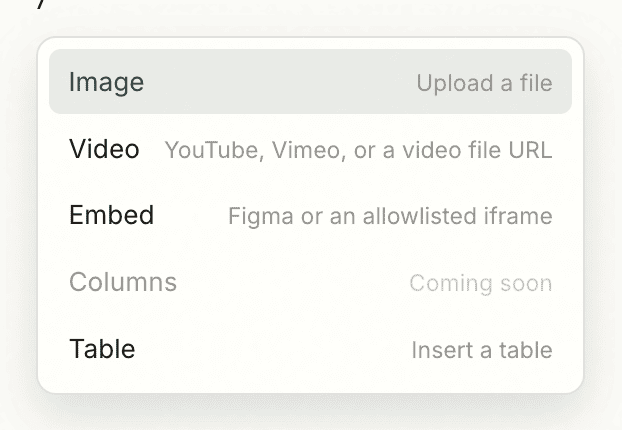
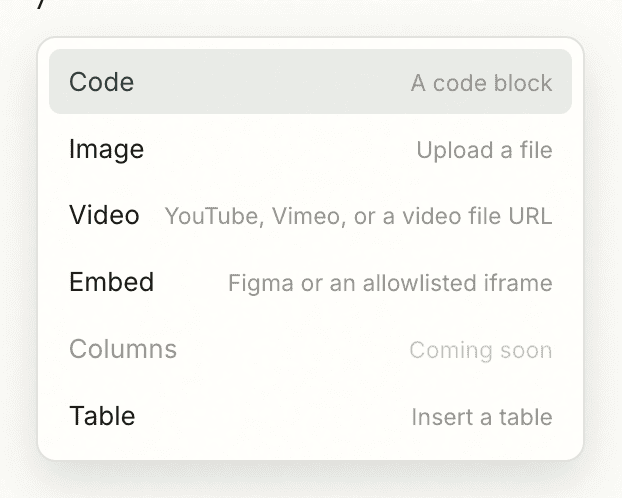
Publish: per-section sort, page byline, editor polish, OKF export

diff --git a/handbook/guide/reading-and-writing/index.html b/handbook/guide/reading-and-writing/index.html
@@ -23,7 +23,10 @@
 <h2>Reading</h2>
 <p>Pages open on warm paper, set in a serif for long reading. The sidebar on the left is your mounts and their folders, nested and collapsible, and it expands to show where you are. A breadcrumb across the top tells you the path, collapsing its middle on deep pages so it never runs off the screen. Wikilinks, written <code>[[by title]]</code>, resolve to the page they name, and only to pages you are allowed to open.</p>
 <p>Search is a keystroke away. <code>⌘K</code> opens the palette: ranked results with the matching passage highlighted, your recently changed pages when the box is still empty, and the keyboard all the way to Enter. When you want to dig, the full results page holds every match with highlighted passages and per-mount filters. Multi-word queries rank pages by how many of your words they share, adjacent phrases first, and the word you are still typing already matches as a prefix.</p>
-<figure><img src="../../assets/search.gif" alt="The search palette opening with ⌘K, results ranking as the query is typed, and Enter opening a page"><figcaption>⌘K, a few letters, Enter. The keyboard the whole way.</figcaption></figure>
+<figure>
+<img src="../../assets/search.gif" alt="The search palette opening with ⌘K, results ranking as the query is typed, and Enter opening a page">
+<figcaption>⌘K, a few letters, Enter. The keyboard the whole way.</figcaption>
+</figure>
 <h2>Writing</h2>
 <p>Editing is deliberate, and it is one gesture.</p>
 <ol>
@@ -35,7 +38,7 @@
 <figure><img src="../../assets/edit-update.gif" alt="The whole editing gesture: Edit, a line typed in place, Update, and the fresh byline"><figcaption>The whole gesture: Edit, change, Update. One commit happened behind it.</figcaption></figure>
 <figure><img src="../../assets/input-rules.gif" alt="Markdown shortcuts converting live: hashes into a heading, stars into bold, a dash into a list"><figcaption>Markdown as you type: hashes make headings, stars make bold, a dash starts a list.</figcaption></figure>
 <figure><img src="../../assets/editor-toolbar.png" alt="The editor&#x27;s floating bottom toolbar: format marks, blocks, inserts, and Update"><figcaption>The whole chrome of edit mode: one floating bar, and the page itself.</figcaption></figure>
-<figure><img src="../../assets/slash-menu.png" alt="The slash menu open in the editor, offering Image, Video, Embed, and Table"><figcaption>Type a slash on a fresh line to insert.</figcaption></figure>
+<figure><img src="../../assets/slash-menu.png" alt="The slash menu open in the editor, offering Code, Image, Video, Embed, and Table"><figcaption>Type a slash on a fresh line to insert.</figcaption></figure>
 <h2>When two edits collide</h2>
 <p>Hanji notices if the page changed underneath you between the moment you opened the editor and the moment you pressed Update. Rather than overwrite the newer version, it stops and tells you, so you never clobber a change you did not see. Reload, reapply your edit on top of the current page, and Update again.</p>
 <h2>New pages</h2>
@@ -45,11 +48,13 @@
 <p>The sidebar is not just a map. It is where you arrange the collection.</p>
 <ul>
 <li><strong>Move</strong>: drag a page or folder onto another folder, or onto a mount's header for its root. A folder brings everything inside it, and the commit behind the drop is a real <code>git mv</code>, so history follows the page.</li>
-<li><strong>Reorder</strong>: drop on the edge of a sibling row, where the insertion line shows. Hanji writes the new arrangement into the pages' <code>order:</code> frontmatter, as one commit.</li>
+<li><strong>Reorder</strong>: drop on the edge of a sibling row, where the insertion line shows. Hanji writes the new arrangement into the pages' <code>order:</code> frontmatter, as one commit. This is the <em>manual</em> order, and it is the default the sidebar shows.</li>
 <li><strong>Nest</strong>: drop onto the middle of a page and it becomes a section landing with the dragged page inside, the same conversion the + performs.</li>
 <li><strong>The rail too</strong>: drag one mount header onto another to reorder the mounts themselves.</li>
 </ul>
 <p>Drops apply instantly; git catches up behind. If something blocks a move, the tree snaps back and a toast tells you why. And if you were reading the page you just moved, the address quietly follows it.</p>
+<h3>Sorting a section</h3>
+<p>The curated <code>order:</code> is not the only way to read a folder. Open a folder (or a mount) and a small sort control appears on its row: leave it <strong>Manual</strong> to keep your arrangement, or switch that section to <strong>Newest first</strong>, <strong>Oldest first</strong>, or <strong>A–Z</strong> by title. The date it sorts by is the one in the filename when a page has one (a <code>2026-04-24-…</code> note sorts by that), and the page's last-commit date otherwise — so a bulk rename that resets git's dates does not scramble the order. The choice is per folder and per person, kept in your browser, so it never changes what anyone else sees or writes anything to the repository. A re-sorted section keeps its control lit so you can tell at a glance. While a section is sorted, drag-to-reorder pauses there: the order you see is not the stored one, so switch back to Manual to curate again.</p>
 <h2>Deleting</h2>
 <p>Next to Edit sits a quiet trash. The first click arms it into an explicit red question, the second deletes: a <code>git rm</code> and one commit. Deleting a section landing takes its children with it, the inverse of nesting. Nothing is ever truly gone, though. The repository remembers every sheet, and history can bring one back.</p>
 <h2>History</h2>

diff --git a/handbook/product/features/index.html b/handbook/product/features/index.html
@@ -131,7 +131,12 @@
 
 
 
-<table><thead><tr><th>Feature</th><th>Status</th><th>Note</th></tr></thead><tbody><tr><td>Markdown reading, rendered with care</td><td>Shipped</td><td>Warm paper, serif, careful spacing</td></tr><tr><td>In-place WYSIWYG editor</td><td>Shipped</td><td>Edit, change, Update, one commit</td></tr><tr><td>Byte-fidelity edits</td><td>Shipped</td><td>A one-word edit is a one-line diff</td></tr><tr><td>Tables, with Notion-style controls</td><td>Shipped</td><td>Hover handles, insert, drag to move</td></tr><tr><td>Task lists, interactive</td><td>Shipped</td><td>Check them off in the page</td></tr><tr><td>Strikethrough and bare-URL autolinks</td><td>Shipped</td><td>Full GFM parity in the editor</td></tr><tr><td>Slash menu to insert</td><td>Shipped</td><td>Blocks, images, embeds</td></tr><tr><td>Images uploaded into the repo</td><td>Shipped</td><td>Into <code>assets/</code>, no external link-rot</td></tr><tr><td>Embeds, video and iframe</td><td>Shipped</td><td>Domain allowlist: figma, youtube, loom, vimeo</td></tr><tr><td>Page history, byline and revisions</td><td>Shipped</td><td>View any past version</td></tr><tr><td>Nested, collapsible sidebar</td><td>Shipped</td><td>Built from page paths</td></tr><tr><td>Breadcrumb navigation</td><td>Shipped</td><td>Middle-collapsing on deep pages</td></tr><tr><td>Wikilinks, <code>[[by title]]</code></td><td>Shipped</td><td>Resolved and permission-aware</td></tr><tr><td>Full-text search</td><td>Shipped</td><td>bm25, title-boosted, multi-word aware, scoped to what you can read</td></tr><tr><td>Search palette and results page</td><td>Shipped</td><td><code>⌘K</code> with ranked snippets; <code>/kb/search</code> with filters</td></tr><tr><td>Emoji, three ways in</td><td>Shipped</td><td>Toolbar picker, <code>:query</code> menu, <code>:tada:</code> conversion</td></tr><tr><td>Sidebar quick-create</td><td>Shipped</td><td>A + on every mount, folder, and page</td></tr><tr><td>Drag to move, reorder, and nest</td><td>Shipped</td><td>Instant, git behind, auto-revert on failure</td></tr><tr><td>Page delete</td><td>Shipped</td><td>Two-step trash, <code>git rm</code>, recoverable from history</td></tr><tr><td>Works on a phone</td><td>Shipped</td><td>Top bar, drawer, the same sidebar</td></tr></tbody></table>
+
+
+
+
+
+<table><thead><tr><th>Feature</th><th>Status</th><th>Note</th></tr></thead><tbody><tr><td>Markdown reading, rendered with care</td><td>Shipped</td><td>Warm paper, serif, careful spacing</td></tr><tr><td>In-place WYSIWYG editor</td><td>Shipped</td><td>Edit, change, Update, one commit</td></tr><tr><td>Byte-fidelity edits</td><td>Shipped</td><td>A one-word edit is a one-line diff</td></tr><tr><td>Tables, with Notion-style controls</td><td>Shipped</td><td>Hover handles, insert, drag to move</td></tr><tr><td>Task lists, interactive</td><td>Shipped</td><td>Check them off in the page</td></tr><tr><td>Strikethrough and bare-URL autolinks</td><td>Shipped</td><td>Full GFM parity in the editor</td></tr><tr><td>Slash menu to insert</td><td>Shipped</td><td>Blocks, images, embeds</td></tr><tr><td>Images uploaded into the repo</td><td>Shipped</td><td>Into <code>assets/</code>, no external link-rot</td></tr><tr><td>Embeds, video and iframe</td><td>Shipped</td><td>Domain allowlist: figma, youtube, loom, vimeo</td></tr><tr><td>Page history, byline and revisions</td><td>Shipped</td><td>View any past version</td></tr><tr><td>Nested, collapsible sidebar</td><td>Shipped</td><td>Built from page paths</td></tr><tr><td>Breadcrumb navigation</td><td>Shipped</td><td>Middle-collapsing on deep pages</td></tr><tr><td>Wikilinks, <code>[[by title]]</code></td><td>Shipped</td><td>Resolved and permission-aware</td></tr><tr><td>Full-text search</td><td>Shipped</td><td>bm25, title-boosted, multi-word aware, scoped to what you can read</td></tr><tr><td>Search palette and results page</td><td>Shipped</td><td><code>⌘K</code> with ranked snippets; <code>/kb/search</code> with filters</td></tr><tr><td>Emoji, three ways in</td><td>Shipped</td><td>Toolbar picker, <code>:query</code> menu, <code>:tada:</code> conversion</td></tr><tr><td>Sidebar quick-create</td><td>Shipped</td><td>A + on every mount, folder, and page</td></tr><tr><td>Drag to move, reorder, and nest</td><td>Shipped</td><td>Instant, git behind, auto-revert on failure</td></tr><tr><td>Per-section sort</td><td>Shipped</td><td>Manual, Newest, Oldest, or A–Z — by filename or commit date, per folder, per person</td></tr><tr><td>Page delete</td><td>Shipped</td><td>Two-step trash, <code>git rm</code>, recoverable from history</td></tr><tr><td>Works on a phone</td><td>Shipped</td><td>Top bar, drawer, the same sidebar</td></tr></tbody></table>
 <h2>The rail and the agents</h2>
 
 

diff --git a/handbook/changelog/index.html b/handbook/changelog/index.html
@@ -20,6 +20,30 @@
 <p class="crumbs"><a href="../">handbook</a> / changelog</p>
 <article><h1>Changelog</h1>
 <p>Reverse chronological. Struck-through text is a decision we made and then moved past, kept visible on purpose, because a changelog that hides its own wrong turns is just marketing.</p>
+<h2>Finding things: sort a section by date or name</h2>
+<ul>
+<li>A folder or mount can now sort its own children four ways: <strong>Manual</strong> (your curated <code>order:</code>, the default and unchanged), <strong>Newest first</strong>, <strong>Oldest first</strong>, or <strong>A–Z</strong> by title. The control lives on the section's row and appears once it is open; a re-sorted section stays lit so it reads at a glance.</li>
+<li>The date it sorts by is the one that actually means something: a date in the filename if the page carries one (notes are often <code>YYYY-MM-DD</code>-named), the page's last-commit date otherwise. So a bulk rename or re-commit that flattens git's own dates does not flatten the order - the filename's date survives it.</li>
+<li>The choice is per section and per person, kept in the browser: it never touches the repository or what anyone else sees. Drag-to-reorder pauses while a section is sorted, because the visible order is no longer the stored one — switch back to Manual to curate.</li>
+<li>Under it: every page's last-commit date is now indexed (one git pass per sync), so date order is instant to read and doesn't walk history on every render. The same date powers the page byline.</li>
+</ul>
+<h2>The editor sharpens</h2>
+<ul>
+<li>Code blocks take the workspace's own accent hue instead of a fixed slate, so a warm workspace gets a warm block and a green one a green block - a deep panel that reads as part of the theme, in both modes.</li>
+<li>Selecting an image no longer pops the text formatting bubble over it: bold/italic have nothing to act on there, and the image's own controls own that moment.</li>
+<li>The image controls give their chips more room, and left/right alignment show real alignment icons rather than the empty rectangles the old glyphs left where a font had no character.</li>
+<li>The slash menu gained <strong>Code</strong> - a code block was insertable by typing ``` but had no entry in the menu until now.</li>
+<li>The page's YAML frontmatter no longer shows as a raw "source" card while editing: it is metadata, not body content, so it stays in the file (round-tripped untouched) but out of the editor's way. Raw HTML and other unsupported blocks still show their source card, since there is nowhere else for them to live. Frontmatter is guarded, too - clear the whole page and it survives, because losing a title or an order to a stray select-all is not an edit anyone means to make.</li>
+</ul>
+<h2>Small breaths</h2>
+<ul>
+<li>A page's header opens up: more air between the breadcrumb and the title, and between the title and its byline, so the top of every page reads calmer.</li>
+<li>Images sit a touch inside the measure now instead of edge to edge, and take a wider gap above them than a paragraph does - so a figure reads as placed, not pasted.</li>
+</ul>
+<h2>Export speaks Open Knowledge Format</h2>
+<ul>
+<li><code>hanji export --okf</code> shapes the Markdown mirror into an <a href="https://github.com/GoogleCloudPlatform/open-knowledge-format">Open Knowledge Format</a> bundle: every concept doc gets a <code>type</code> in its frontmatter (yours wins if you set one), the reserved <code>index.md</code> and <code>log.md</code> stay frontmatter-free, and the bundle root declares <code>okf_version</code>. The static site and <code>llms.txt</code> ride along unchanged, and the source in git is never touched, the shaping lives only in the copy on disk. Mounting an OKF bundle already worked, because a bundle is just Markdown on git.</li>
+</ul>
 <h2>The lockup opens, the footer retires</h2>
 <ul>
 <li>The workspace name is a door now: Settings and Log out lead, Documentation and Report an issue follow as real rows, and the project meta fades below - the version beside a What's new link to this page, then Contribute and Support, quietest last. The mark alone stays the one-click way home. Members see "Signed in as" where owners see Settings.</li>

diff --git a/handbook/guide/cli/index.html b/handbook/guide/cli/index.html
@@ -69,7 +69,7 @@
 
 
 
-<table><thead><tr><th>Command</th><th>What it does</th></tr></thead><tbody><tr><td><code>add-mount &#x3C;name> &#x3C;repoUrl> &#x3C;mountPath> [subpath] [--suggest]</code></td><td>Add a repository, or a folder of one, as a mount. <code>--suggest</code> makes it proposal-only.</td></tr><tr><td><code>remove-mount &#x3C;name></code></td><td>Remove a mount and its indexed pages. The clone directory stays on disk.</td></tr><tr><td><code>sync</code></td><td>Fetch every mount from its remote and reindex what changed.</td></tr><tr><td><code>rebuild</code></td><td>Discard the index and rebuild it from the local clones. Always safe.</td></tr><tr><td><code>token &#x3C;name> &#x3C;mount[/folder|/page.md]=read|read+propose>...</code></td><td>Mint a bearer token for an agent, scoped to a mount, a folder, or one page. Prints it once.</td></tr><tr><td><code>list</code></td><td>List every mount and how many pages it holds.</td></tr><tr><td><code>export &#x3C;outDir> [mount...]</code></td><td>Publish everything open to everyone: a browsable static site, <code>llms.txt</code>, <code>llms-full.txt</code>, and every page as plain Markdown. Mount names narrow the set; nothing widens it.</td></tr><tr><td><code>rule &#x3C;mount> [path] &#x3C;everyone-read|everyone-propose|restricted|clear></code></td><td>Set or clear a general-access rule from the command line - what Share's select does in the front.</td></tr><tr><td><code>set &#x3C;key> &#x3C;value></code></td><td>Write an instance setting - the workspace name, or the export settings <a href="../publish/">Publish to the web</a> describes.</td></tr><tr><td><code>assets [mount]</code></td><td>List uploaded images no page references anymore, per mount or everywhere.</td></tr></tbody></table>
+<table><thead><tr><th>Command</th><th>What it does</th></tr></thead><tbody><tr><td><code>add-mount &#x3C;name> &#x3C;repoUrl> &#x3C;mountPath> [subpath] [--suggest]</code></td><td>Add a repository, or a folder of one, as a mount. <code>--suggest</code> makes it proposal-only.</td></tr><tr><td><code>remove-mount &#x3C;name></code></td><td>Remove a mount and its indexed pages. The clone directory stays on disk.</td></tr><tr><td><code>sync</code></td><td>Fetch every mount from its remote and reindex what changed.</td></tr><tr><td><code>rebuild</code></td><td>Discard the index and rebuild it from the local clones. Always safe.</td></tr><tr><td><code>token &#x3C;name> &#x3C;mount[/folder|/page.md]=read|read+propose>...</code></td><td>Mint a bearer token for an agent, scoped to a mount, a folder, or one page. Prints it once.</td></tr><tr><td><code>list</code></td><td>List every mount and how many pages it holds.</td></tr><tr><td><code>export &#x3C;outDir> [mount...] [--okf]</code></td><td>Publish everything open to everyone: a browsable static site, <code>llms.txt</code>, <code>llms-full.txt</code>, and every page as plain Markdown. Mount names narrow the set; nothing widens it. <code>--okf</code> also shapes the Markdown mirror into an <a href="https://github.com/GoogleCloudPlatform/open-knowledge-format">Open Knowledge Format</a> bundle, described in <a href="../publish/">Publish to the web</a>.</td></tr><tr><td><code>rule &#x3C;mount> [path] &#x3C;everyone-read|everyone-propose|restricted|clear></code></td><td>Set or clear a general-access rule from the command line - what Share's select does in the front.</td></tr><tr><td><code>set &#x3C;key> &#x3C;value></code></td><td>Write an instance setting - the workspace name, or the export settings <a href="../publish/">Publish to the web</a> describes.</td></tr><tr><td><code>assets [mount]</code></td><td>List uploaded images no page references anymore, per mount or everywhere.</td></tr></tbody></table>
 <h2>Examples</h2>
 <pre><code class="language-bash">pnpm hanji add-mount handbook git@github.com:you/product.git handbook docs
 pnpm hanji sync

diff --git a/handbook/status/index.html b/handbook/status/index.html
@@ -30,6 +30,8 @@
 <li><input type="checkbox" checked disabled> The agent git flow, end to end: an agent proposes, you review the diff in the front, and merge (see <a href="../guide/proposals/">Proposals</a>)</li>
 <li><input type="checkbox" checked disabled> Search worth the name: a title-boosted, multi-word-aware backend under a <code>⌘K</code> palette and a full results page</li>
 <li><input type="checkbox" checked disabled> The sidebar as an organizer: quick-create, drag to move, reorder, nest, and delete, all real git behind an instant UI</li>
+<li><input type="checkbox" checked disabled> Per-section sorting: a folder or mount sorts its own children by date (newest or oldest, from the filename or the commit) or A-Z - a personal, per-section choice kept in the browser</li>
+<li><input type="checkbox" checked disabled> Every page's paper trail: a byline of who began it and who last changed it, read from git history, shown on the page and powering the recency sort</li>
 <li><input type="checkbox" checked disabled> A workspace made yours: name, logo, OKLCH theming with secured contrast, fonts, and a phone-ready shell</li>
 <li><input type="checkbox" checked disabled> Proposal from the human front: on a suggest-only mount, Update becomes Propose, landing in the same review card</li>
 <li><input type="checkbox" checked disabled> Several human principals: viewers and contributors with per-mount scopes, added by the owner in Settings</li>
@@ -41,6 +43,7 @@
 <li><input type="checkbox" checked disabled> Changes arrive on their own: a signed push-to-sync webhook, and an opt-in poll loop for tailnets and local mounts</li>
 <li><input type="checkbox" checked disabled> A first run without a terminal: the welcome walks three soft steps - source, details, name and owner - suggesting the name from what you picked, and signs you in</li>
 <li><input type="checkbox" checked disabled> The publishing plane: <code>hanji export</code> renders a browsable static site - the hanji look, no JavaScript - beside the Markdown mirror. This handbook is published with it.</li>
+<li><input type="checkbox" checked disabled> Open Knowledge Format interop: any OKF bundle mounts as-is, and <code>hanji export --okf</code> emits a conformant one - typed concept docs, reserved index files, an <code>okf_version</code> root</li>
 </ul>
 <p>Reading and writing both feel like paper. That was the first thing that had to be true. See <a href="../product/features/">Features</a> for the full list, and <a href="../changelog/">Changelog</a> for what shipped when.</p>
 <h2>Next, in build</h2>

diff --git a/handbook/guide/publish/index.html b/handbook/guide/publish/index.html
@@ -56,6 +56,11 @@ pnpm hanji set export_edit_base_url https://github.com/you/repo/edit/main/docs
 edit</strong> link straight into your repository's web editor - a reader spots a
 typo, clicks, and a pull request is two clicks away. The cheapest
 contribution funnel there is.</p>
+<h2>As an OKF bundle</h2>
+<p>Add <code>--okf</code> and the export is also an <a href="https://github.com/GoogleCloudPlatform/open-knowledge-format">Open Knowledge Format</a> bundle, the vendor-neutral Markdown-on-git shape other agent tools read:</p>
+<pre><code class="language-bash">pnpm hanji export ./bundle --okf
+</code></pre>
+<p>Every page ships as a concept document with a <code>type</code> in its frontmatter (<code>Page</code> by default; a page that sets its own <code>type:</code> keeps it), the reserved <code>index.md</code> files carry no frontmatter, and the bundle root declares <code>okf_version</code>. The static site and <code>llms.txt</code> still ride along. Your source in git is untouched, the OKF shaping happens only in the copy on disk.</p>
 <h2>What stays private</h2>
 <p>Everything without an everyone rule. A restricted folder inside an open mount
 stays dark, its pages and even its images never leave the building. If

diff --git a/handbook/guide/mounts/index.html b/handbook/guide/mounts/index.html
@@ -37,6 +37,7 @@ pnpm hanji add-mount notes git@github.com:you/notes.git notes
 # only the docs/ folder of a larger repo
 pnpm hanji add-mount handbook git@github.com:you/product.git handbook docs
 </code></pre>
+<p>An <a href="https://github.com/GoogleCloudPlatform/open-knowledge-format">Open Knowledge Format</a> bundle mounts like any other repository, because that is all it is: Markdown concept documents on git, each with a <code>type</code> in its frontmatter. Hanji indexes every concept, keeps its frontmatter byte-for-byte, and serves the bundle to people and agents like the rest of your tree. Nothing to configure.</p>
 <h2>Keeping in sync</h2>
 <p>Hanji reads from a local clone and serves from a local index. To pull the latest from a mount's remote and reindex, sync.</p>
 <pre><code class="language-bash">pnpm hanji sync       # fetch every mount and reindex what changed

diff --git a/handbook/guide/reading-and-writing.md b/handbook/guide/reading-and-writing.md
@@ -14,7 +14,10 @@ Pages open on warm paper, set in a serif for long reading. The sidebar on the le
 
 Search is a keystroke away. `⌘K` opens the palette: ranked results with the matching passage highlighted, your recently changed pages when the box is still empty, and the keyboard all the way to Enter. When you want to dig, the full results page holds every match with highlighted passages and per-mount filters. Multi-word queries rank pages by how many of your words they share, adjacent phrases first, and the word you are still typing already matches as a prefix.
 
-<figure><img src="assets/search.gif" alt="The search palette opening with ⌘K, results ranking as the query is typed, and Enter opening a page"><figcaption>⌘K, a few letters, Enter. The keyboard the whole way.</figcaption></figure>
+<figure>
+<img src="assets/search.gif" alt="The search palette opening with ⌘K, results ranking as the query is typed, and Enter opening a page">
+<figcaption>⌘K, a few letters, Enter. The keyboard the whole way.</figcaption>
+</figure>
 
 ## Writing
 
@@ -32,7 +35,7 @@ If you changed nothing, nothing is committed. There is no draft state to babysit
 
 <figure><img src="assets/editor-toolbar.png" alt="The editor's floating bottom toolbar: format marks, blocks, inserts, and Update"><figcaption>The whole chrome of edit mode: one floating bar, and the page itself.</figcaption></figure>
 
-<figure><img src="assets/slash-menu.png" alt="The slash menu open in the editor, offering Image, Video, Embed, and Table"><figcaption>Type a slash on a fresh line to insert.</figcaption></figure>
+<figure><img src="assets/slash-menu.png" alt="The slash menu open in the editor, offering Code, Image, Video, Embed, and Table"><figcaption>Type a slash on a fresh line to insert.</figcaption></figure>
 
 ## When two edits collide
 
@@ -49,11 +52,15 @@ Making a page is the same gesture pointed at a path that does not exist yet. The
 The sidebar is not just a map. It is where you arrange the collection.
 
 - **Move**: drag a page or folder onto another folder, or onto a mount's header for its root. A folder brings everything inside it, and the commit behind the drop is a real `git mv`, so history follows the page.
-- **Reorder**: drop on the edge of a sibling row, where the insertion line shows. Hanji writes the new arrangement into the pages' `order:` frontmatter, as one commit.
+- **Reorder**: drop on the edge of a sibling row, where the insertion line shows. Hanji writes the new arrangement into the pages' `order:` frontmatter, as one commit. This is the *manual* order, and it is the default the sidebar shows.
 - **Nest**: drop onto the middle of a page and it becomes a section landing with the dragged page inside, the same conversion the + performs.
 - **The rail too**: drag one mount header onto another to reorder the mounts themselves.
 
 Drops apply instantly; git catches up behind. If something blocks a move, the tree snaps back and a toast tells you why. And if you were reading the page you just moved, the address quietly follows it.
+
+### Sorting a section
+
+The curated `order:` is not the only way to read a folder. Open a folder (or a mount) and a small sort control appears on its row: leave it **Manual** to keep your arrangement, or switch that section to **Newest first**, **Oldest first**, or **A–Z** by title. The date it sorts by is the one in the filename when a page has one (a `2026-04-24-…` note sorts by that), and the page's last-commit date otherwise — so a bulk rename that resets git's dates does not scramble the order. The choice is per folder and per person, kept in your browser, so it never changes what anyone else sees or writes anything to the repository. A re-sorted section keeps its control lit so you can tell at a glance. While a section is sorted, drag-to-reorder pauses there: the order you see is not the stored one, so switch back to Manual to curate again.
 
 ## Deleting
 

diff --git a/handbook/changelog.md b/handbook/changelog.md
@@ -8,6 +8,30 @@ description: The road behind us, honestly logged.
 
 Reverse chronological. Struck-through text is a decision we made and then moved past, kept visible on purpose, because a changelog that hides its own wrong turns is just marketing.
 
+## Finding things: sort a section by date or name
+
+- A folder or mount can now sort its own children four ways: **Manual** (your curated `order:`, the default and unchanged), **Newest first**, **Oldest first**, or **A–Z** by title. The control lives on the section's row and appears once it is open; a re-sorted section stays lit so it reads at a glance.
+- The date it sorts by is the one that actually means something: a date in the filename if the page carries one (notes are often `YYYY-MM-DD`-named), the page's last-commit date otherwise. So a bulk rename or re-commit that flattens git's own dates does not flatten the order - the filename's date survives it.
+- The choice is per section and per person, kept in the browser: it never touches the repository or what anyone else sees. Drag-to-reorder pauses while a section is sorted, because the visible order is no longer the stored one — switch back to Manual to curate.
+- Under it: every page's last-commit date is now indexed (one git pass per sync), so date order is instant to read and doesn't walk history on every render. The same date powers the page byline.
+
+## The editor sharpens
+
+- Code blocks take the workspace's own accent hue instead of a fixed slate, so a warm workspace gets a warm block and a green one a green block - a deep panel that reads as part of the theme, in both modes.
+- Selecting an image no longer pops the text formatting bubble over it: bold/italic have nothing to act on there, and the image's own controls own that moment.
+- The image controls give their chips more room, and left/right alignment show real alignment icons rather than the empty rectangles the old glyphs left where a font had no character.
+- The slash menu gained **Code** - a code block was insertable by typing ``` but had no entry in the menu until now.
+- The page's YAML frontmatter no longer shows as a raw "source" card while editing: it is metadata, not body content, so it stays in the file (round-tripped untouched) but out of the editor's way. Raw HTML and other unsupported blocks still show their source card, since there is nowhere else for them to live. Frontmatter is guarded, too - clear the whole page and it survives, because losing a title or an order to a stray select-all is not an edit anyone means to make.
+
+## Small breaths
+
+- A page's header opens up: more air between the breadcrumb and the title, and between the title and its byline, so the top of every page reads calmer.
+- Images sit a touch inside the measure now instead of edge to edge, and take a wider gap above them than a paragraph does - so a figure reads as placed, not pasted.
+
+## Export speaks Open Knowledge Format
+
+- `hanji export --okf` shapes the Markdown mirror into an [Open Knowledge Format](https://github.com/GoogleCloudPlatform/open-knowledge-format) bundle: every concept doc gets a `type` in its frontmatter (yours wins if you set one), the reserved `index.md` and `log.md` stay frontmatter-free, and the bundle root declares `okf_version`. The static site and `llms.txt` ride along unchanged, and the source in git is never touched, the shaping lives only in the copy on disk. Mounting an OKF bundle already worked, because a bundle is just Markdown on git.
+
 ## The lockup opens, the footer retires
 
 - The workspace name is a door now: Settings and Log out lead, Documentation and Report an issue follow as real rows, and the project meta fades below - the version beside a What's new link to this page, then Contribute and Support, quietest last. The mark alone stays the one-click way home. Members see "Signed in as" where owners see Settings.

diff --git a/handbook/status.md b/handbook/status.md
@@ -18,6 +18,8 @@ Hanji is early, and built in the open with its own tools. This page is written i
 - [x] The agent git flow, end to end: an agent proposes, you review the diff in the front, and merge (see [[Proposals]])
 - [x] Search worth the name: a title-boosted, multi-word-aware backend under a `⌘K` palette and a full results page
 - [x] The sidebar as an organizer: quick-create, drag to move, reorder, nest, and delete, all real git behind an instant UI
+- [x] Per-section sorting: a folder or mount sorts its own children by date (newest or oldest, from the filename or the commit) or A-Z - a personal, per-section choice kept in the browser
+- [x] Every page's paper trail: a byline of who began it and who last changed it, read from git history, shown on the page and powering the recency sort
 - [x] A workspace made yours: name, logo, OKLCH theming with secured contrast, fonts, and a phone-ready shell
 - [x] Proposal from the human front: on a suggest-only mount, Update becomes Propose, landing in the same review card
 - [x] Several human principals: viewers and contributors with per-mount scopes, added by the owner in Settings
@@ -29,6 +31,7 @@ Hanji is early, and built in the open with its own tools. This page is written i
 - [x] Changes arrive on their own: a signed push-to-sync webhook, and an opt-in poll loop for tailnets and local mounts
 - [x] A first run without a terminal: the welcome walks three soft steps - source, details, name and owner - suggesting the name from what you picked, and signs you in
 - [x] The publishing plane: `hanji export` renders a browsable static site - the hanji look, no JavaScript - beside the Markdown mirror. This handbook is published with it.
+- [x] Open Knowledge Format interop: any OKF bundle mounts as-is, and `hanji export --okf` emits a conformant one - typed concept docs, reserved index files, an `okf_version` root
 
 Reading and writing both feel like paper. That was the first thing that had to be true. See [[Features]] for the full list, and [[Changelog]] for what shipped when.
 

diff --git a/handbook/guide/cli.md b/handbook/guide/cli.md
@@ -16,7 +16,7 @@ The whole CLI, run as `pnpm hanji <command>`. It reads `HANJI_DATA_DIR` for wher
 | `rebuild` | Discard the index and rebuild it from the local clones. Always safe. |
 | `token <name> <mount[/folder\|/page.md]=read\|read+propose>...` | Mint a bearer token for an agent, scoped to a mount, a folder, or one page. Prints it once. |
 | `list` | List every mount and how many pages it holds. |
-| `export <outDir> [mount...]` | Publish everything open to everyone: a browsable static site, `llms.txt`, `llms-full.txt`, and every page as plain Markdown. Mount names narrow the set; nothing widens it. |
+| `export <outDir> [mount...] [--okf]` | Publish everything open to everyone: a browsable static site, `llms.txt`, `llms-full.txt`, and every page as plain Markdown. Mount names narrow the set; nothing widens it. `--okf` also shapes the Markdown mirror into an [Open Knowledge Format](https://github.com/GoogleCloudPlatform/open-knowledge-format) bundle, described in [[Publish to the web]]. |
 | `rule <mount> [path] <everyone-read\|everyone-propose\|restricted\|clear>` | Set or clear a general-access rule from the command line - what Share's select does in the front. |
 | `set <key> <value>` | Write an instance setting - the workspace name, or the export settings [[Publish to the web]] describes. |
 | `assets [mount]` | List uploaded images no page references anymore, per mount or everywhere. |

diff --git a/handbook/guide/publish.md b/handbook/guide/publish.md
@@ -58,6 +58,16 @@ edit** link straight into your repository's web editor - a reader spots a
 typo, clicks, and a pull request is two clicks away. The cheapest
 contribution funnel there is.
 
+## As an OKF bundle
+
+Add `--okf` and the export is also an [Open Knowledge Format](https://github.com/GoogleCloudPlatform/open-knowledge-format) bundle, the vendor-neutral Markdown-on-git shape other agent tools read:
+
+```bash
+pnpm hanji export ./bundle --okf
+```
+
+Every page ships as a concept document with a `type` in its frontmatter (`Page` by default; a page that sets its own `type:` keeps it), the reserved `index.md` files carry no frontmatter, and the bundle root declares `okf_version`. The static site and `llms.txt` still ride along. Your source in git is untouched, the OKF shaping happens only in the copy on disk.
+
 ## What stays private
 
 Everything without an everyone rule. A restricted folder inside an open mount
